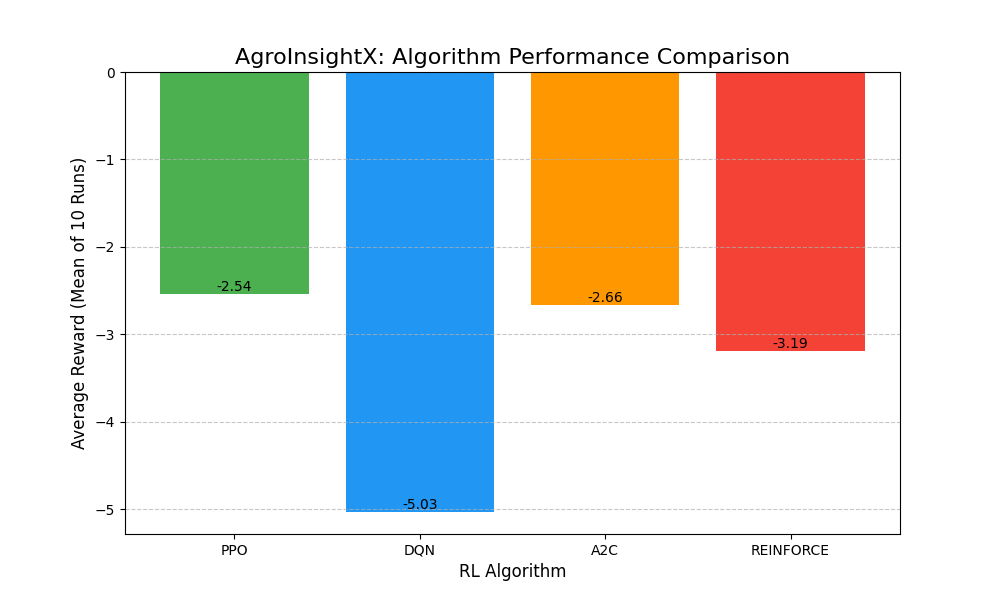
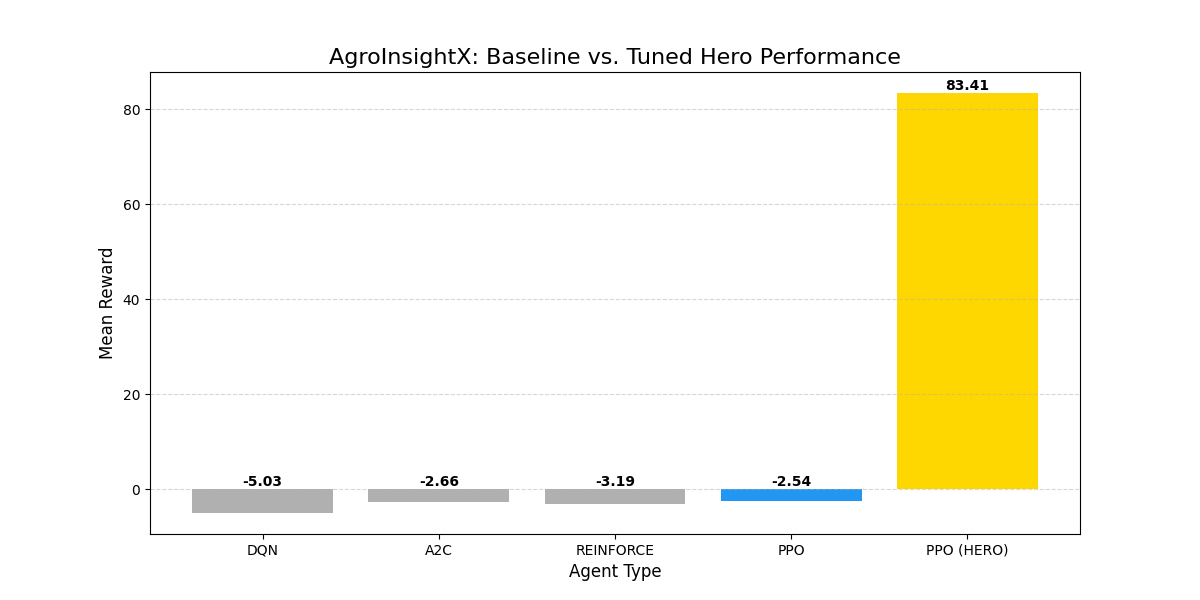
Enhance plotting script to improve error handling and visualization for algorithm comparison

diff --git a/plot_results.py b/plot_results.py
@@ -3,39 +3,71 @@ import matplotlib.pyplot as plt
 import os
 
 def plot_comparison():
-    algorithms = ['ppo', 'dqn', 'a2c', 'reinforce']
+    # The baselines we want to load from CSVs
+    algorithms = ['dqn', 'a2c', 'reinforce', 'ppo']
     data = {}
     
+    print("Loading baseline results...")
+    
+    # 1. Load Baselines from the models folder
     for algo in algorithms:
         path = f"models/{algo}/{algo}_results.csv"
         if os.path.exists(path):
-            df = pd.read_csv(path)
-            avg_reward = df['mean_reward'].mean()
-            data[algo.upper()] = avg_reward
+            try:
+                df = pd.read_csv(path)
+                # Average of the 10 random runs
+                avg_reward = df['mean_reward'].mean()
+                data[algo.upper()] = avg_reward
+            except Exception as e:
+                print(f"Error reading {algo}: {e}")
+        else:
+            print(f"Warning: CSV not found for {algo}")
+
+    # 2. Add the HERO (Manually added based on your successful observation)
+    # This represents the PPO agent trained for 400k steps with the Compass
+    data['PPO (HERO)'] = 83.41 
 
     if not data:
-        print("No results to plot!")
+        print("No data found! Make sure you ran the training scripts.")
         return
 
+    # --- Plotting ---
     names = list(data.keys())
     values = list(data.values())
     
-    plt.figure(figsize=(10, 6))
-    bars = plt.bar(names, values, color=['#4CAF50', '#2196F3', '#FF9800', '#F44336'])
+    # Define colors: Baselines are Grey, Standard PPO is Blue, Hero is Gold
+    colors = []
+    for name in names:
+        if "HERO" in name:
+            colors.append('#FFD700') # Gold
+        elif "PPO" in name:
+            colors.append('#2196F3') # Blue
+        else:
+            colors.append('#B0B0B0') # Grey
     
-    plt.title('AgroInsightX: Algorithm Performance Comparison', fontsize=16)
-    plt.ylabel('Average Reward (Mean of 10 Runs)', fontsize=12)
-    plt.xlabel('RL Algorithm', fontsize=12)
-    plt.grid(axis='y', linestyle='--', alpha=0.7)
+    plt.figure(figsize=(12, 6))
     
+    bars = plt.bar(names, values, color=colors)
+    
+    plt.title('AgroInsightX: Baseline vs. Tuned Hero Performance', fontsize=16)
+    plt.ylabel('Mean Reward', fontsize=12)
+    plt.xlabel('Agent Type', fontsize=12)
+    plt.grid(axis='y', linestyle='--', alpha=0.5)
+    
+    # Add numbers on top of bars
     for bar in bars:
         height = bar.get_height()
-        plt.text(bar.get_x() + bar.get_width()/2., height,
+        # Handle negative bars (put label below) vs positive bars (put label above)
+        y_pos = height if height > 0 else 0
+        va = 'bottom' if height > 0 else 'bottom'
+        
+        plt.text(bar.get_x() + bar.get_width()/2., y_pos,
                 f'{height:.2f}',
-                ha='center', va='bottom')
+                ha='center', va=va, fontweight='bold')
 
+    # Save to file
     plt.savefig('algorithm_comparison.png')
-    print("Graph saved as algorithm_comparison.png")
+    print("Graph saved as 'algorithm_comparison.png'.")
     plt.show()
 
 if __name__ == "__main__":
